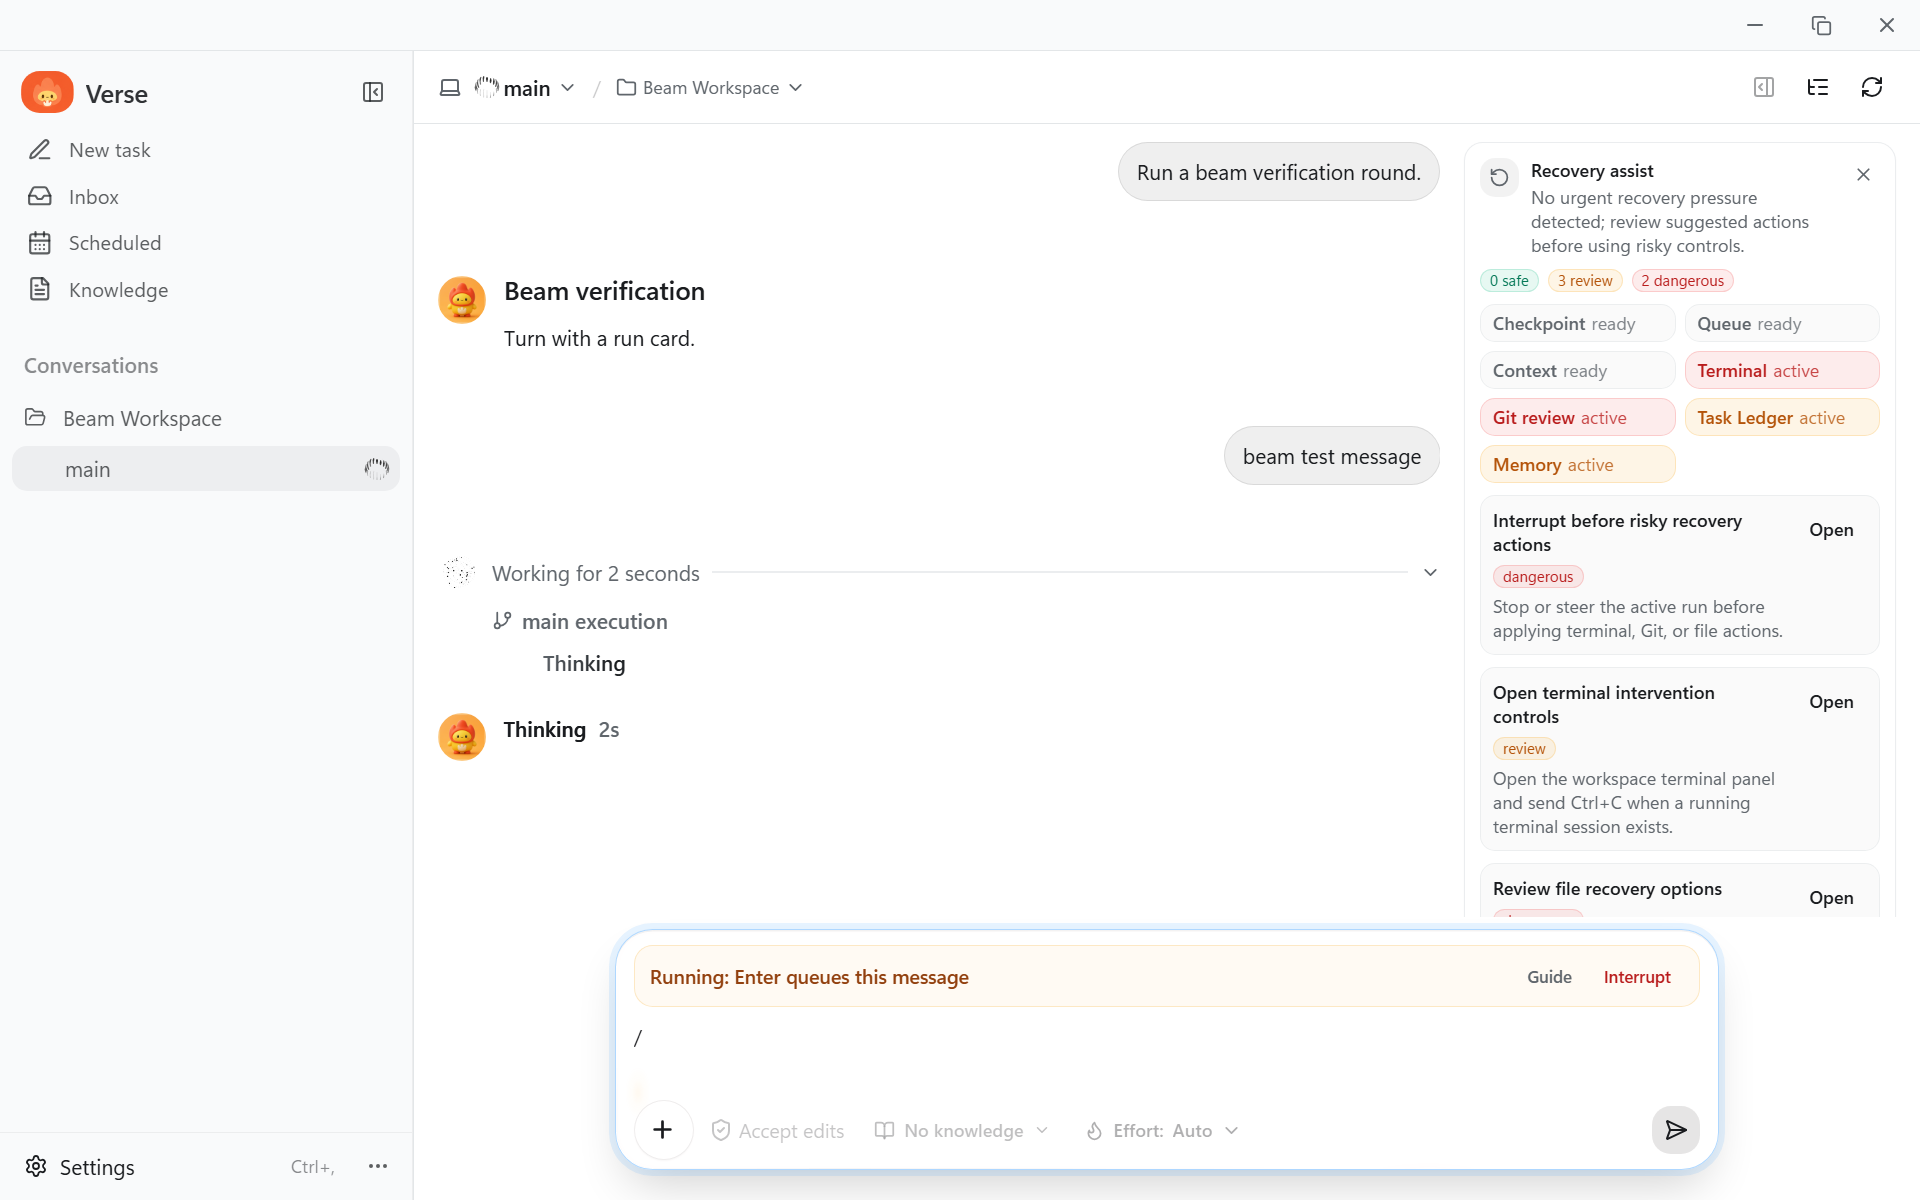
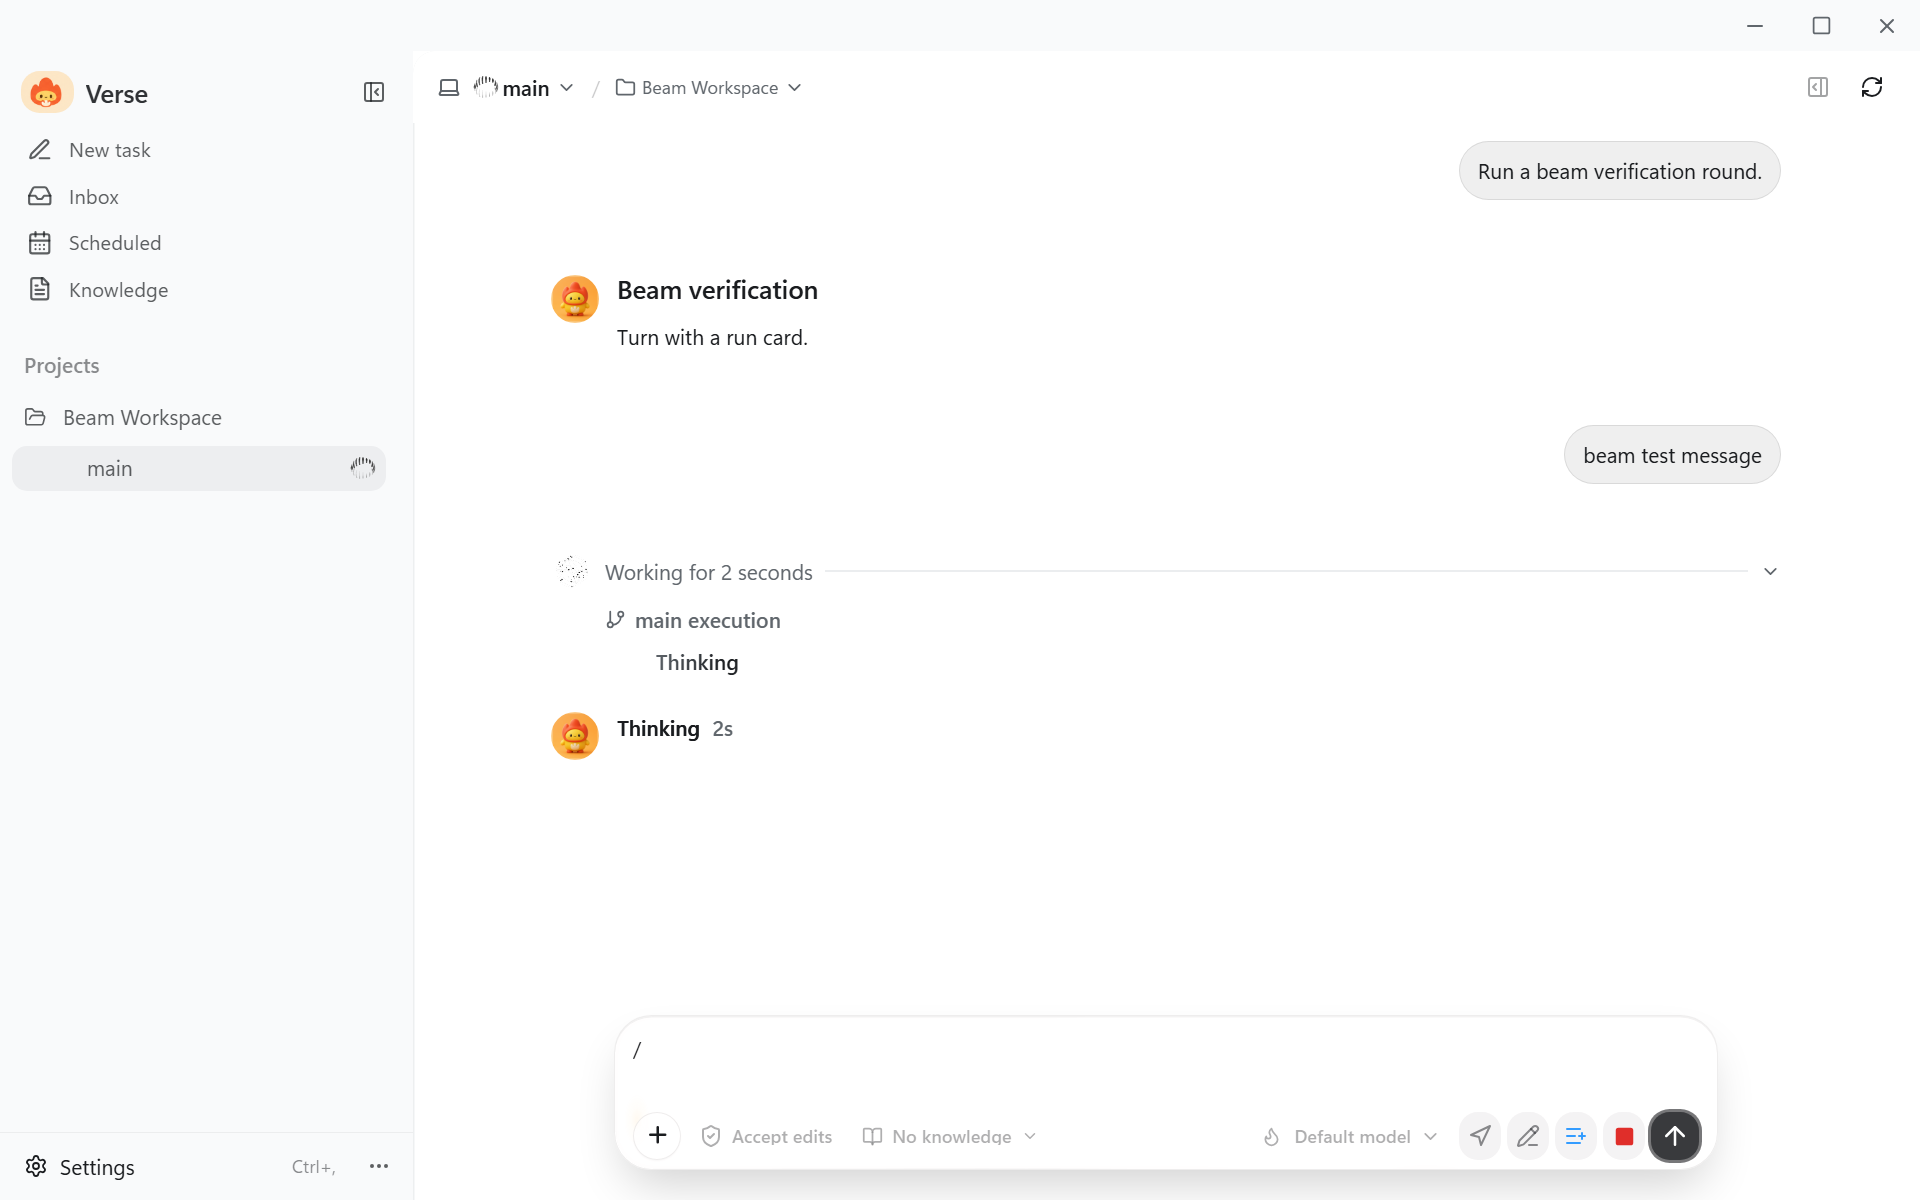
chore: test:dcs path fix, anysearch MCP config, acceptance artifacts refresh (in-flight checkpoint)
- package.json: correct test:dcs vitest paths (config/*, harness/*, relative
  to openclaw_runtime) matching the reorganized runtime test layout.
- .mcp.json: register the anysearch HTTP MCP server (key via env substitution,
  no inline secrets).
- resources: drop superseded mascot-3d-yellow-red icon kit PNGs.
- artifacts/reports/team: refresh coding-prod P0/c4 acceptance evidence,
  sekb golden-path evidence, system-maturity validation outputs, and visual
  tune reference imagery.

Layered checkpoint commit of in-flight workstream changes for origin backup.

diff --git a/artifacts/coding-prod-p0/COMPLETE.md b/artifacts/coding-prod-p0/COMPLETE.md
@@ -1,7 +1,7 @@
 # DCS Prod P0 COMPLETE (opt-in packaging)
 
-**Date**: 2026-07-31
-**SHA**: `5d416810f`
+**Date**: 2026-08-19
+**SHA**: `e07b874b3`
 **productionMode**: `opt-in`
 **completionClass**: `done (loop)`
 **defaultsUnchanged**: true
